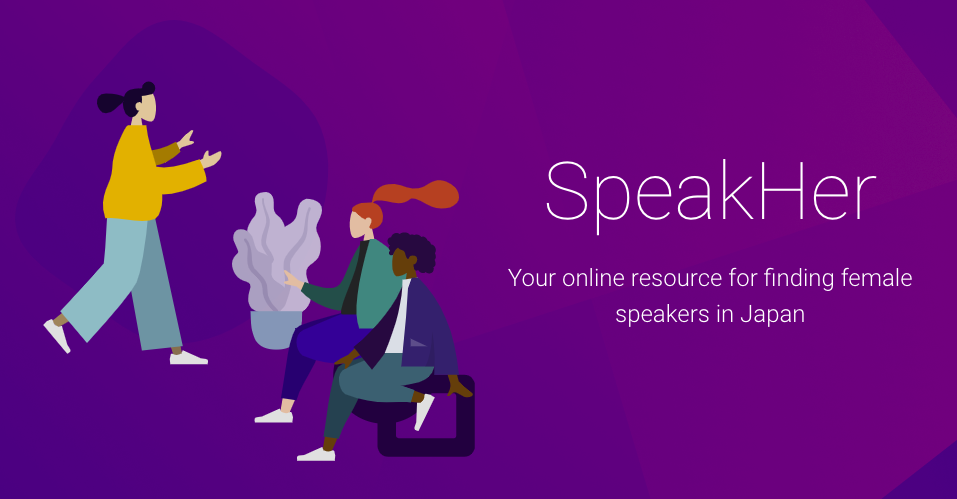
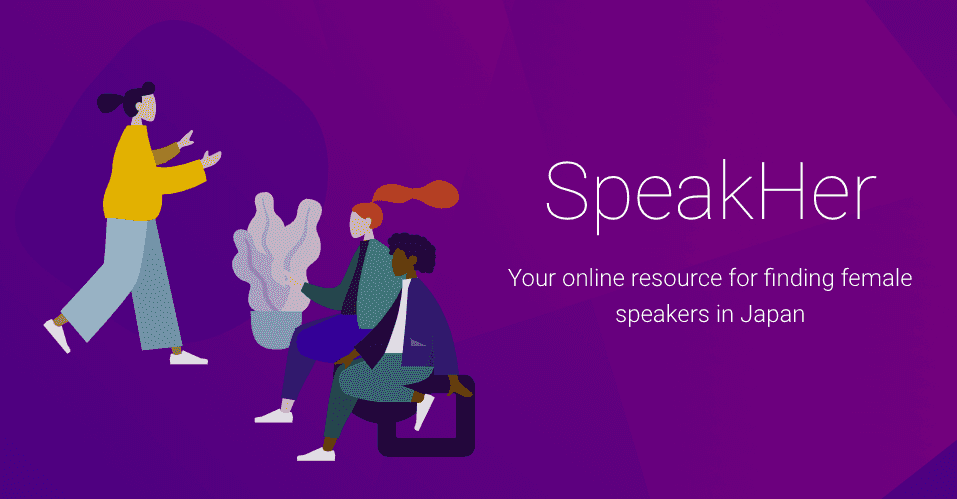
Reduce asset file sizes (#158)
* Reduce asset file sizes

* Switch to a svg file for the background

diff --git a/web/src/views/Home.vue b/web/src/views/Home.vue
@@ -2,7 +2,7 @@
   <div>
     <v-parallax
       dark
-      src="../assets/background.png"
+      src="../assets/background.svg"
       height="100%"
     >
       <v-row

diff --git a/web/src/components/Toolbar.vue b/web/src/components/Toolbar.vue
@@ -3,7 +3,7 @@
     app
     color="primary"
     dark
-    src="../assets/background.png"
+    src="../assets/background.svg"
     flat
     absolute
   >
